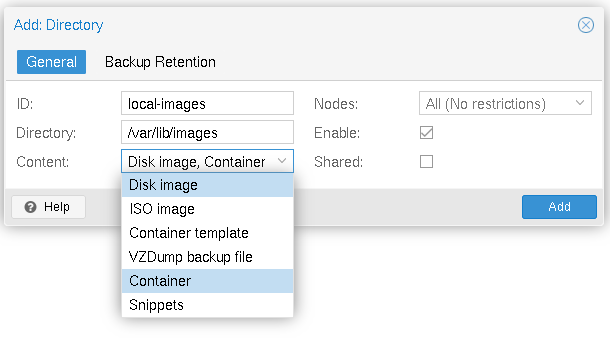
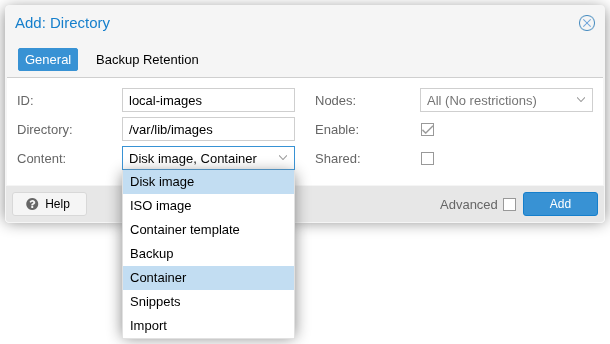
Revisión de los apartados y capturas del módulo 4 para Proxmox VE 9

diff --git a/modulo4/directory.md b/modulo4/directory.md
@@ -10,7 +10,8 @@ Como vimos anteriormente, al instalar Proxmox VE se nos crea una fuente de almac
 
 * **ISO image**: Imágenes ISO.
 * **Container template**: Plantillas de contenedores.
-* **VZDump backup files**: Ficheros de copia de seguridad.
+* **Backup**: Ficheros de copia de seguridad.
+* **Import**: Imágenes de discos y ficheros OVA para importar máquinas virtuales.
 
 ![storage_local](img/storage_local2.png)
 
@@ -21,11 +22,11 @@ Si elegimos el almacenamiento **local**, podemos ver los datos que podemos guard
 Si accedemos al nodo por ssh (o desde la terminal del panel de control, opción *Shell*), podemos comprobar la estructura de directorios que se ha creado:
 
 ```bash
-ssh root@192.168.100.87
+ssh root@192.168.122.235
 ...
 root@pve:~# cd /var/lib/vz
 root@pve:/var/lib/vz# ls
-dump  images  template
+dump  images  import  template
 ```
 
 Por ejemplo, las imágenes ISO se guardan en:
@@ -33,7 +34,7 @@ Por ejemplo, las imágenes ISO se guardan en:
 ```bash
 root@pve:/var/lib/vz# cd template/iso/
 root@pve:/var/lib/vz/template/iso# ls
-debian-11.1.0-amd64-netinst.iso  ubuntu-20.04.3-desktop-amd64.iso  virtio-win-0.1.208.iso  Win10_21H1_Spanish_x64.iso
+debian-13.7.0-amd64-netinst.iso  virtio-win.iso  Win11_25H2_Spanish_x64_v2.iso
 ```
 
 ## Creación de una nueva fuente de almacenamiento de tipo Directory
@@ -45,7 +46,7 @@ Podríamos modificar la fuente de almacenamiento anterior y añadir dos nuevos t
 
 Sin embargo, vamos a aprender a crear otra fuente de almacenamiento donde vamos a guardar las imágenes de disco de las máquinas virtuales y los datos del sistema de fichero de los contenedores.
 
-Los discos de imágenes de las máquinas virtuales se pueden guardar en dos tipos de ficheros de imágenes:
+Los discos de imágenes de las máquinas virtuales se pueden guardar en tres tipos de ficheros de imágenes:
 
 * **raw**: El formato raw es una imagen binaria sencilla de la imagen del disco. Se ocupa todo el espacio que hayamos indicado al crearla. El acceso es más eficiente.
 * **qcow2**: El formato QEMU copy-on-write. Al crearse sólo se ocupa el espacio que se está ocupando con los datos, el fichero irá creciendo cuando escribamos en él. Acepta snapshots y aprovisionamiento ligero. Es menos eficiente en cuanto al acceso. 
@@ -61,19 +62,21 @@ Indicamos un nombre, el directorio y el contenido que vamos a guardar, en nuestr
 
 **Nota: El directorio `/var/lib/images` se crea automáticamente.**
 
+Si marcamos la casilla **Advanced**, aparecen dos opciones más: **Preallocation**, que indica si se reserva el espacio de los ficheros de imagen al crearlos, y **Allow Snapshots as Volume-Chain**, la novedad de Proxmox VE 9 que vimos en el apartado anterior. Como todavía está en pruebas, la dejamos desmarcada.
+
 ## Creación de una máquina virtual usando la nueva fuente de almacenamiento
 
 Ahora podemos crear máquinas virtuales cuyos discos virtuales se guarden en ficheros de imágenes que se guardarán en la fuente de almacenamiento **local-images**.
 
-Durante el proceso de creación de la imagen, podremos elegir la fuente de almacenamiento donde vamos a guardar el disco, en nuestro caso elegimos la fuente **local-images**, y el tipo de fichero de imagen, nosotros vamos a elegir qcow2:
+Durante el proceso de creación de la máquina, en la pestaña **Disks**, podremos elegir la fuente de almacenamiento donde vamos a guardar el disco, en nuestro caso elegimos la fuente **local-images**, y el tipo de fichero de imagen. Al elegir una fuente de tipo *Directory* el formato por defecto es qcow2, que es el que vamos a usar:
 
 ![storage_directory](img/storage_directory3.png)
 
-Hemos creado y configurado la máquina virtual con ID 101, si accedemos al nodo podemos ver donde se ha creado el fichero de imagen:
+Hemos creado y configurado la máquina virtual con ID 102, si accedemos al nodo podemos ver donde se ha creado el fichero de imagen:
 
 ```bash
-root@pve:/var/lib/images/images/101# ls
-vm-101-disk-0.qcow2
+root@pve:/var/lib/images/images/102# ls
+vm-102-disk-0.qcow2
 ```
 
 **Nota: La fuente de almacenamiento de tipo *Directory* la hemos creado sobre el disco de la máquina donde tenemos instalado Proxmox VE, por lo tanto,  su capacidad será la que tiene este disco. En circunstancias reales, la fuente de tipo *Directory* la podríamos crear sobre un dispositivo de bloque (disco, raid, ...) añadido al nodo Proxmox VE.**

diff --git a/modulo4/gestion_almacenamiento.md b/modulo4/gestion_almacenamiento.md
@@ -1,6 +1,6 @@
 # Gestión de los discos de una máquina virtual
 
-Si elegimos un disco en el apartado *Hardware* de una máquina virtual, observamos que tenemos varias operaciones que podemos realizar sobre él:
+Si elegimos un disco en el apartado *Hardware* de una máquina virtual, observamos que tenemos varias operaciones que podemos realizar sobre él. Algunas están agrupadas en el menú **Disk Action**:
 
 ![gestion_disco](img/gestion_disco.png)
 
@@ -20,19 +20,19 @@ Un disco no usado    lo podemos borrar (opción *Remove*), o lo podemos editar (
 
 ![gestion_disco](img/gestion_disco3.png)
 
-## Resize disk
+## Disk Action → Resize
 
-Podemos aumentar el tamaño de un disco con la opción *Resize disk*:
+Podemos aumentar el tamaño de un disco con la opción *Resize* del menú *Disk Action*. Indicamos cuántos GiB queremos añadir:
 
 ![gestion_disco](img/gestion_disco4.png)
 
 Recuerda que el aumento de tamaño del disco es independiente del aumento del sistema de ficheros, por lo tanto, si accedemos a la máquina, podemos comprobar que el disco ahora es de 2Gb:
 
 ```bash
-lsblk
-NAME   MAJ:MIN RM  SIZE RO TYPE MOUNTPOINT
+root@debian:~# lsblk
+NAME   MAJ:MIN RM  SIZE RO TYPE MOUNTPOINTS
 ...
-sdb      8:32   0    2G  0 disk 
+sdb      8:16   0    2G  0 disk /mnt
 ```
 
 Pero que el sistema de archivo sigue siendo de 1Gb:
@@ -41,7 +41,7 @@ Pero que el sistema de archivo sigue siendo de 1Gb:
 root@debian:~# df -h
 S.ficheros     Tamaño Usados  Disp Uso% Montado en
 ...
-/dev/sdb         974M    24K  907M   1% /mnt
+/dev/sdb         974M   280K  906M   1% /mnt
 ```
 
 Como lo habíamos formateado con ext4, tenemos que ejecutar las siguientes instrucciones con el disco desmontado:
@@ -54,14 +54,14 @@ root@debian:~# mount /dev/sdb /mnt
 root@debian:~# df -h
 S.ficheros     Tamaño Usados  Disp Uso% Montado en
 ...
-/dev/sdb         2,0G   3,0M  1,9G   1% /mnt
+/dev/sdb         2,0G   280K  1,9G   1% /mnt
 ```
 
 Y comprobamos que hemos aumentado el tamaño del sistema de ficheros.
 
-## Move disk
+## Disk Action → Move Storage
 
-Podemos copiar el contenido de cualquier disco a otra fuente de almacenamiento disponible. Durante esta copia se puede indicar si se elimina el disco origen, o si se deja como disco no usado.
+Con la opción *Move Storage* del menú *Disk Action* podemos copiar el contenido de cualquier disco a otra fuente de almacenamiento disponible. Durante esta copia se puede indicar si se elimina el disco origen, o si se deja como disco no usado.
 
 Nuestro disco adicional estaba guardado en un almacenamiento de tipo *Directory*, lo vamos a mover a una fuente de almacenamiento de tipo *Thin LVM*, por lo tanto, la información guardada en un archivo de imagen qcow2, se va a guardar en un volumen LVM. El disco origen no lo vamos a borrar:
 
@@ -70,6 +70,10 @@ Nuestro disco adicional estaba guardado en un almacenamiento de tipo *Directory*
 Comprobamos que ahora tenemos un disco guardado en la fuente de almacenamiento **local-lvm** y un disco sin usar en la fuente de almacenamiento **local-images**.
 
 ![gestion_disco](img/gestion_disco6.png)
+
+## Disk Action → Reassign Owner
+
+Por último, la opción *Reassign Owner* nos permite pasar el disco a otra máquina virtual del mismo nodo: el disco desaparece de la máquina actual y aparece en la máquina que indiquemos.
 
 * [Vídeo: Gestión de los discos de una máquina virtual](https://youtu.be/lMNAJI4B81U)
 

diff --git a/modulo4/nuevo_almacenamiento.md b/modulo4/nuevo_almacenamiento.md
@@ -1,6 +1,6 @@
 # Añadir nuevos discos a una máquina virtual
 
-En el apartado *Hardware* de cualquier máquina virtual podemos añadirle nuevos discos duros:
+En el apartado *Hardware* de cualquier máquina virtual podemos añadirle nuevos discos duros con la opción **Add → Hard Disk** (la opción **Import Hard Disk** sirve para añadir un disco a partir de una imagen que ya tengamos):
 
 ![new_disco](img/new_disco.png)
 
@@ -11,7 +11,7 @@ Al añadir el nuevo disco, tendremos que elegir en qué fuente de almacenamiento
 En nuestro caso, tenemos disponibles dos fuentes de almacenamiento:
 
 * **local-images**: De tipo `Directory`, la información del disco se guardará en un fichero de imagen.
-* **local-lvm**: De tipo `Thin-LVM`, la información del disco se guardará en un volumen LVM.
+* **local-lvm**: De tipo `LVM-Thin`, la información del disco se guardará en un volumen LVM.
 
 En nuestro caso vamos a elegir la opción **local-images**, por lo que tendremos que elegir el tipo de fichero de imagen que vamos a usar:
 
@@ -26,16 +26,17 @@ Al añadir comprobamos que la máquina tiene dos discos:
 Si accedemos a la máquina virtual (podemos hacerlo desde la terminal de Proxmox, opción `Shell` o accediendo a la máquina por ssh), podemos comprobar que tenemos un nuevo disco:
 
 ```bash
-ssh jose@192.168.100.88
+ssh usuario@192.168.122.22
 ...
-jose@debian:~$ sudo su -
+usuario@debian:~$ su -
 root@debian:~# lsblk
-NAME   MAJ:MIN RM  SIZE RO TYPE MOUNTPOINT
+NAME   MAJ:MIN RM  SIZE RO TYPE MOUNTPOINTS
 sda      8:0    0   32G  0 disk 
 ├─sda1   8:1    0   31G  0 part /
 ├─sda2   8:2    0    1K  0 part 
-└─sda5   8:5    0  975M  0 part [SWAP]
+└─sda5   8:5    0 1022M  0 part [SWAP]
 sdb      8:16   0    1G  0 disk 
+sr0     11:0    1  756M  1 rom  
 ```
 
 Podemos formatear el disco:
@@ -55,13 +56,14 @@ Podemos ver las características del disco montado:
 ```bash
 root@debian:~# df -h
 S.ficheros     Tamaño Usados  Disp Uso% Montado en
-udev             976M      0  976M   0% /dev
-tmpfs            199M   436K  198M   1% /run
-/dev/sda1         31G   1,1G   28G   4% /
-tmpfs            992M      0  992M   0% /dev/shm
+udev             456M      0  456M   0% /dev
+tmpfs             97M   472K   97M   1% /run
+/dev/sda1         31G   1,2G   28G   5% /
+tmpfs            484M      0  484M   0% /dev/shm
 tmpfs            5,0M      0  5,0M   0% /run/lock
-tmpfs            199M      0  199M   0% /run/user/1000
-/dev/sdb         974M    24K  907M   1% /mnt
+tmpfs            484M      0  484M   0% /tmp
+tmpfs             97M   8,0K   97M   1% /run/user/1000
+/dev/sdb         974M   280K  906M   1% /mnt
 ```
 
 * [Vídeo: Añadir nuevos discos a una máquina virtual](https://youtu.be/hOZpZhkjlUE)

diff --git a/modulo4/almacenamiento.md b/modulo4/almacenamiento.md
@@ -38,9 +38,9 @@ momento, y si es necesario podremos volver a ese estado a posteriori.
 
 ## Aprovisionamiento ligero
 
-Todas las **fuentes de almacenamiento** que nos permiten la realización
+Casi todas las **fuentes de almacenamiento** que nos permiten la realización
 de instantáneas, también nos proporcionan la funcionalidad del
-**aprovisionamiento ligero**. Si utilizamos está característica la
+**aprovisionamiento ligero** (la excepción son las instantáneas en LVM que se explican más abajo). Si utilizamos esta característica la
 información guardada en el almacenamiento de una máquina virtual
 estará formada por una imagen base y sólo se guardará los cambios que
 se van produciendo en esa máquina.
@@ -66,13 +66,16 @@ previa de almacenamiento.
 |NFS|Sist. Ficheros|Si|No (Si, con ficheros qcow2)|
 |CIFS|Sist. Ficheros|Si|No (Si, con ficheros qcow2)|
 |Proxmox Backup|Sist. Ficheros / Disp. Bloque|Si|No|
-|GlusterFS|Sist. Ficheros|Si|No (Si, con ficheros qcow2)|
 |CephFS|Sist. Ficheros|Si|Si|
-|LVM|Disp. Bloque|No (Si, usando iSCSI)|No|
+|LVM|Disp. Bloque|No (Si, usando iSCSI)|No (Instantáneas sí, como cadena de volúmenes\*)|
 |LVM-thin|Disp. Bloque|No|Si|
 |iSCSI|Disp. Bloque|Si|No|
 |Ceph/RBD|Disp. Bloque|Si|Si|
 |ZFS over iSCSI|Disp. Bloque|Si|Si|
+
+\* **Novedad de Proxmox VE 9**: las instantáneas como **cadena de volúmenes** (*snapshots as volume chains*). Cada instantánea guarda el estado del disco en un volumen y los cambios posteriores se escriben en un volumen nuevo, que se apoya en el anterior. Se activa con la opción **Allow Snapshots as Volume-Chain** al crear un almacenamiento de tipo LVM, Directory, NFS o CIFS. En LVM permite hacer instantáneas, pero sin aprovisionamiento ligero: cada volumen ocupa todo su tamaño. En la versión 9.2 todavía es una *technology preview* (una funcionalidad en pruebas).
+
+**Nota:** Proxmox VE 9 ya no admite el almacenamiento de tipo **GlusterFS**.
 
 ## ¿Qué podemos guardar en las distintas fuentes de almacenamiento?
 
@@ -83,8 +86,9 @@ distintos tipos:
 * **Containers**: Sistema de ficheros de los contenedores Linux.
 * **ISO image**: Imágenes ISO.
 * **Container template**: Plantillas de contenedores.
-* **VZDump backup files**: Ficheros de copia de seguridad.
-* ...
+* **Backup**: Ficheros de copia de seguridad.
+* **Snippets**: Ficheros auxiliares, por ejemplo, scripts que se ejecutan en distintos momentos del ciclo de vida de una máquina virtual o contenedor.
+* **Import**: Imágenes de discos y ficheros OVA que podemos importar para crear nuevas máquinas virtuales.
 
 ## Conclusión
 
